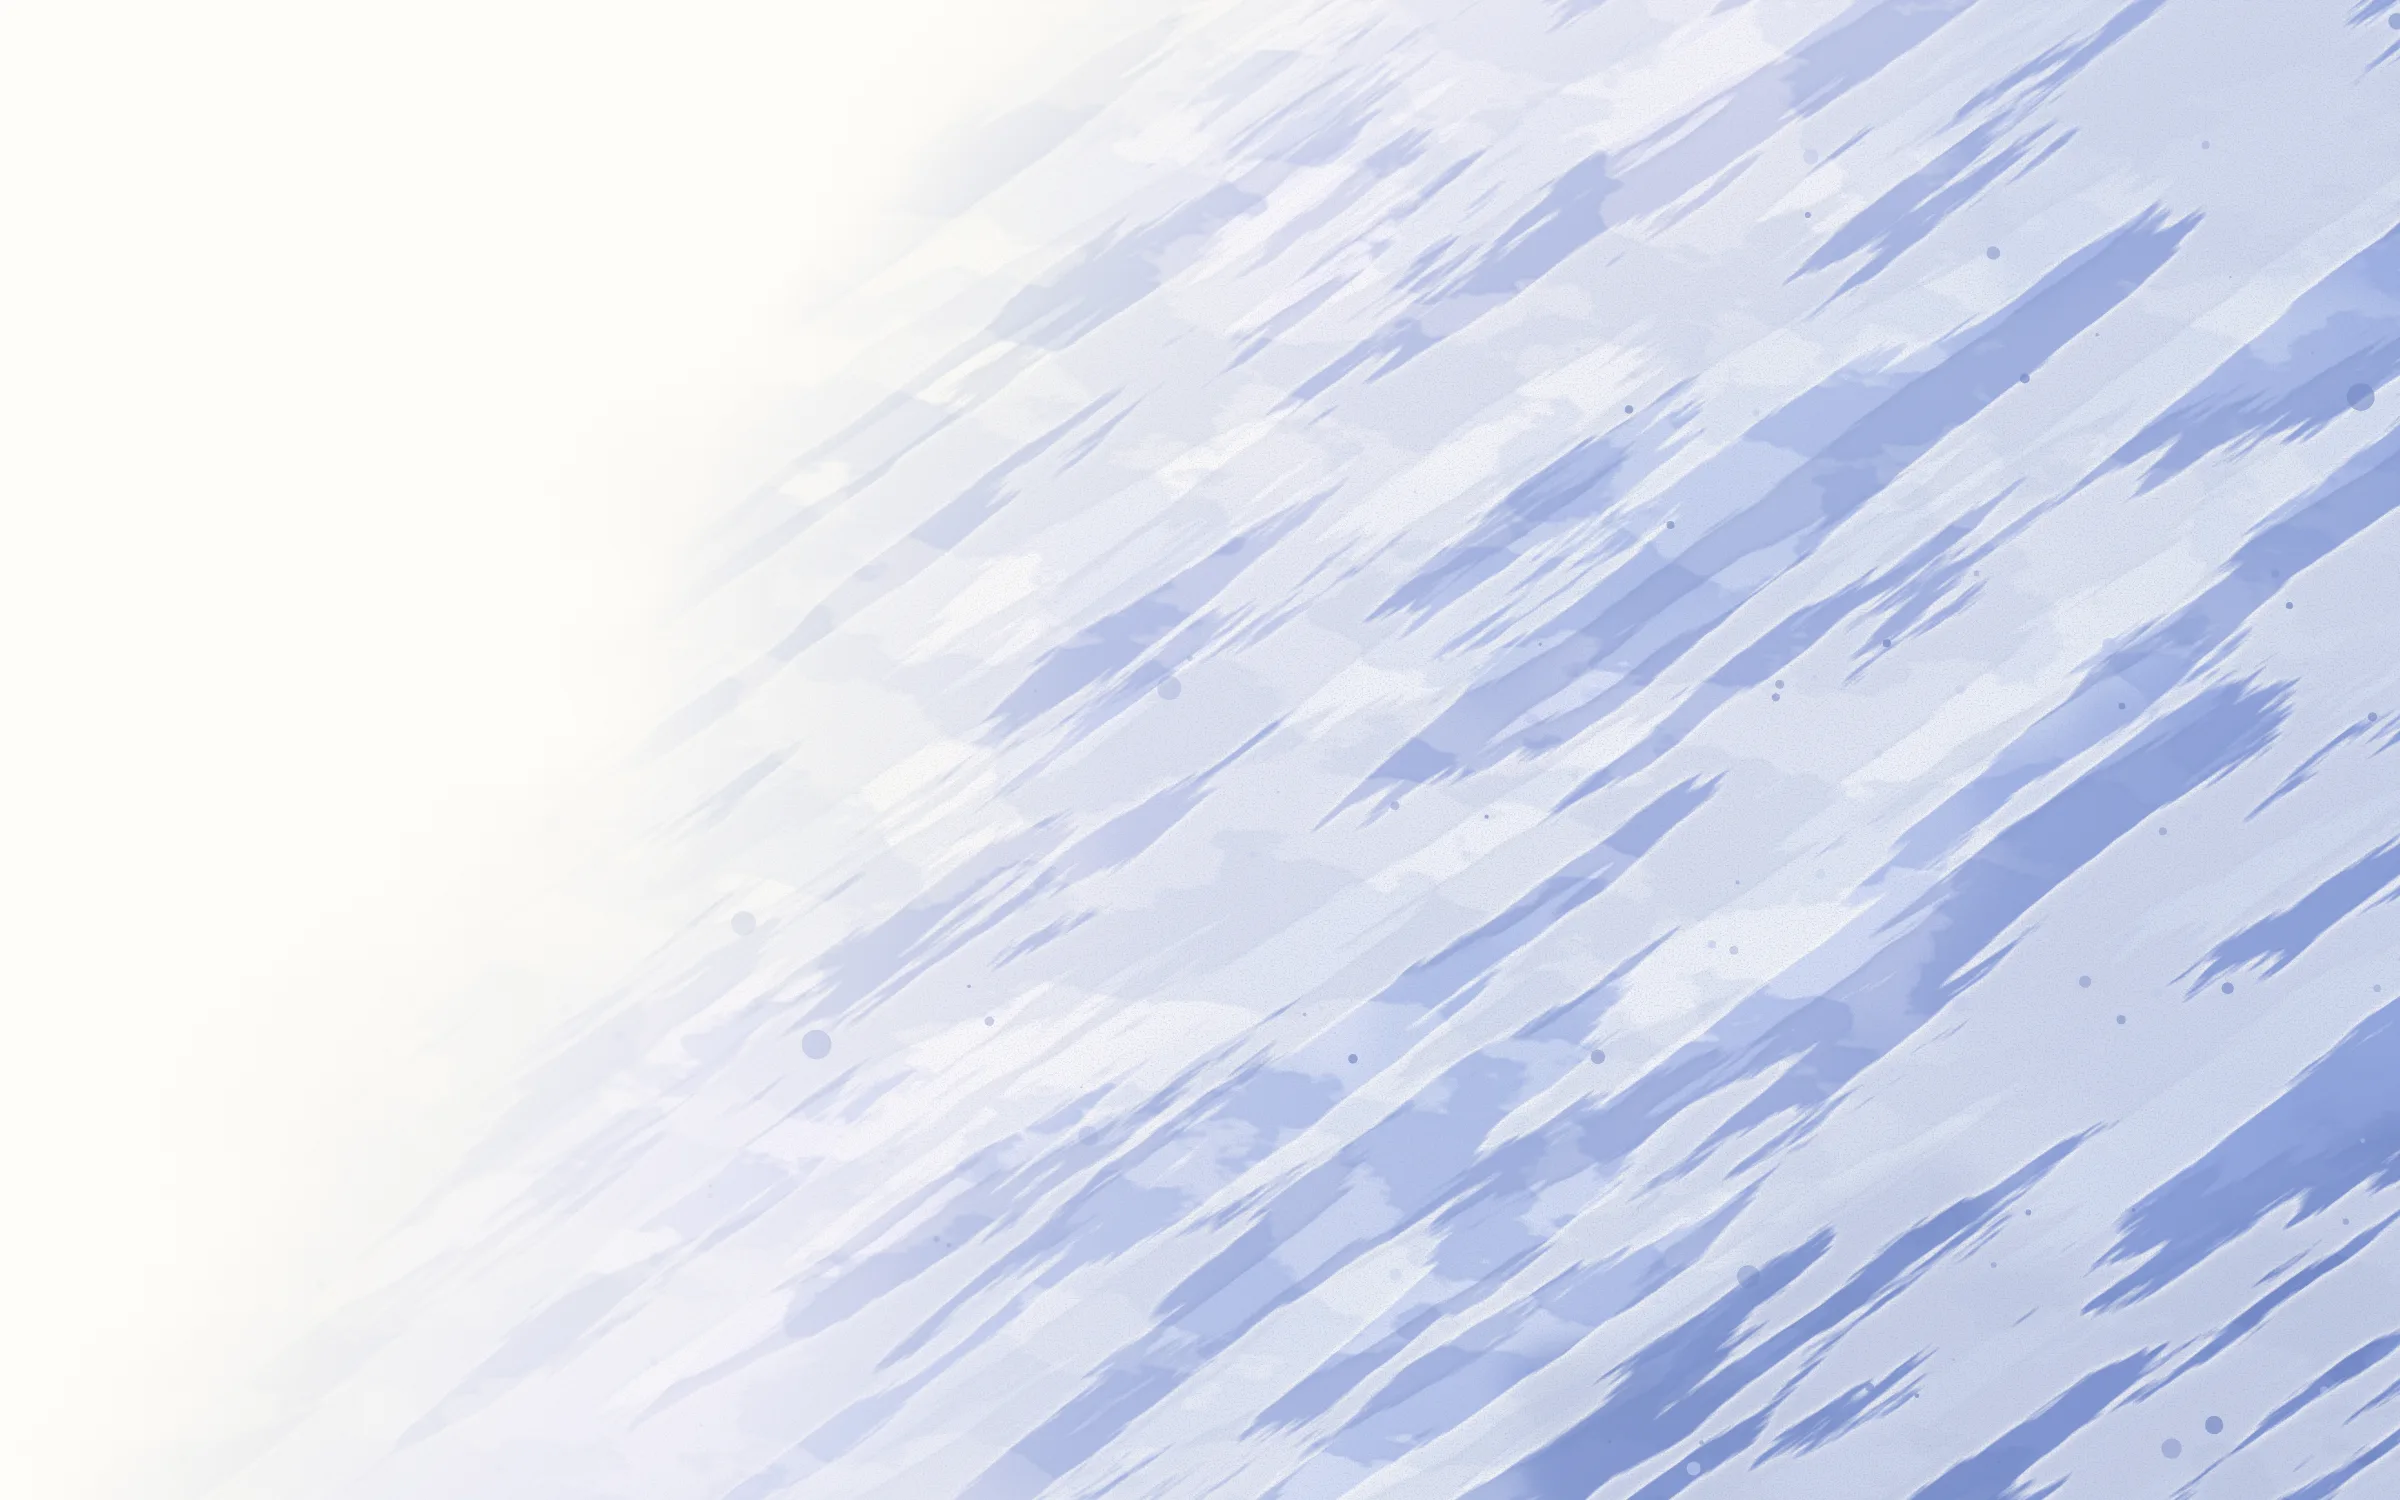
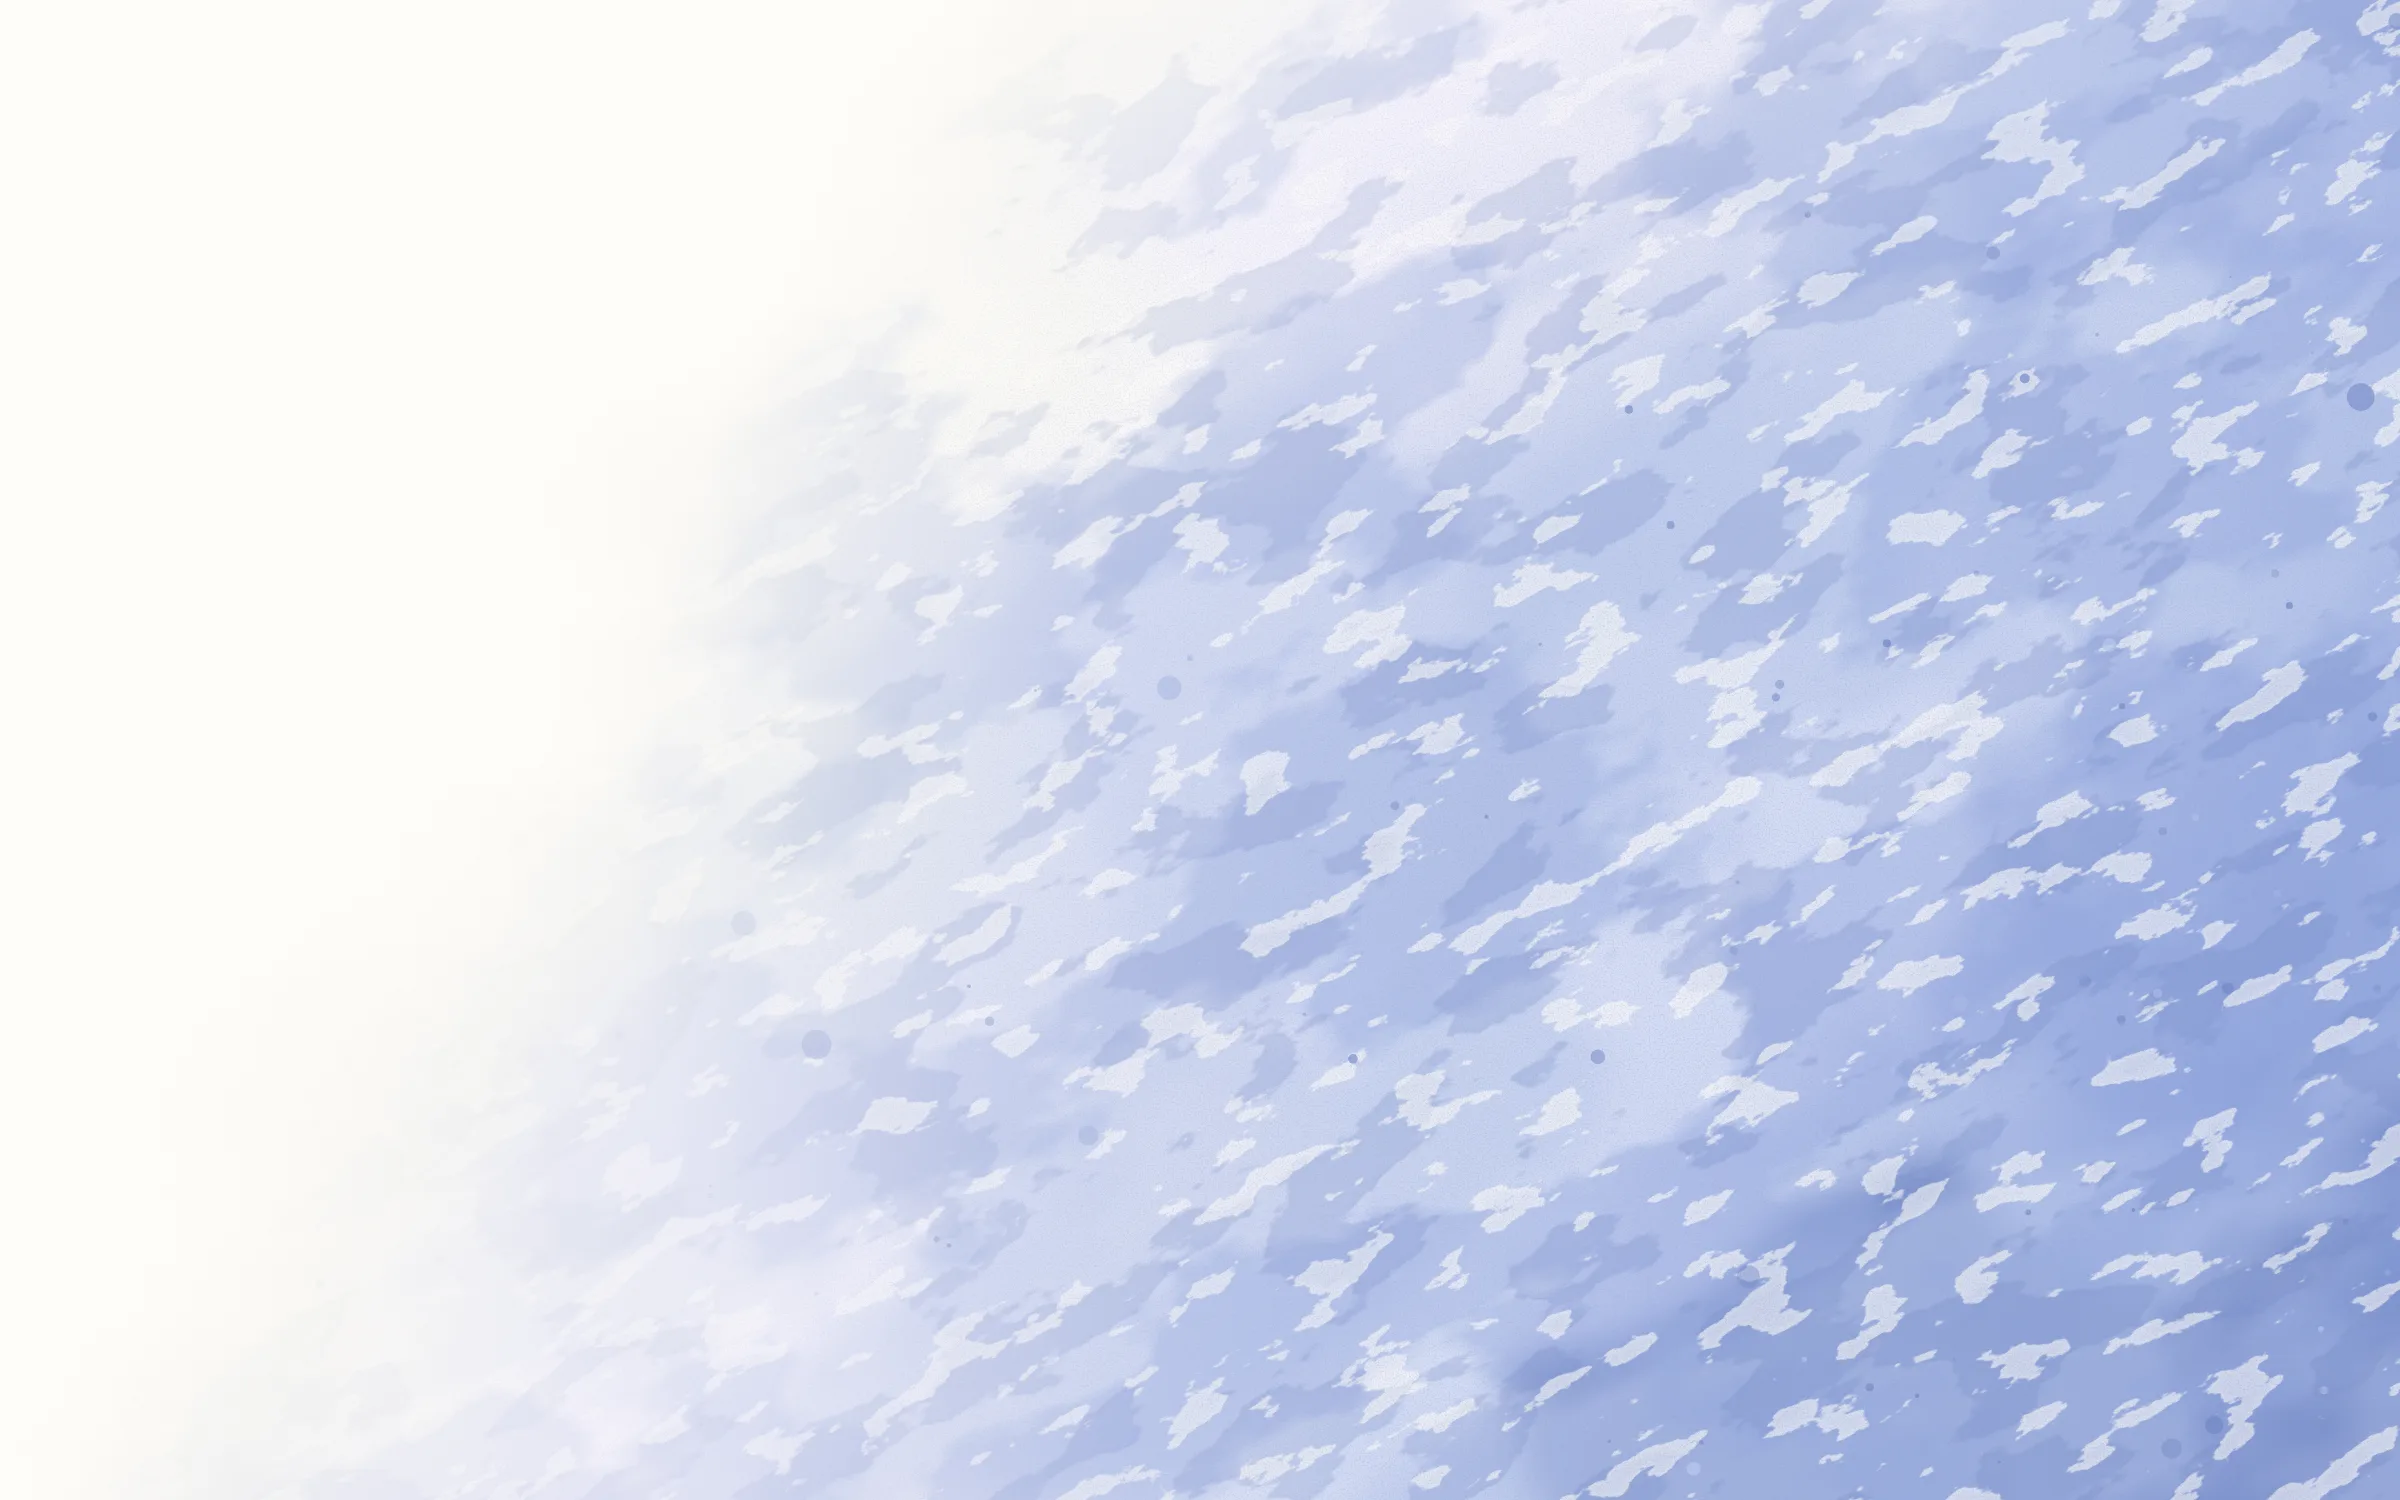
Cover: mottled watercolour background like An's reference, no brush lines
Replaces the dry-brush streak layers with soft pools of pigment and flecks of
bare paper, lightly aligned with the wash.

Claude-Session: https://claude.ai/code/session_0159GH97PS4Djb92bQ7DK8qk

diff --git a/scripts/watercolor/wash.html b/scripts/watercolor/wash.html
@@ -30,6 +30,16 @@ function drops() {
   }
   return out;
 }
+// A thresholded-noise filter: pools of pigment with a slightly darker drying edge.
+function mottle(id, fx, fy, seedOff, gain, bias) {
+  return `<filter id="${id}" x="0" y="0" width="100%" height="100%">
+      <feTurbulence type="fractalNoise" baseFrequency="${fx / s} ${fy / s}" numOctaves="5" seed="${seed + seedOff}"/>
+      <feColorMatrix type="matrix" values="0 0 0 0 0  0 0 0 0 0  0 0 0 0 0  0 0 0 ${gain} ${bias}" result="a"/>
+      <feGaussianBlur in="a" stdDeviation="${3 * s}" result="b"/>
+      <feComposite in="a" in2="b" operator="arithmetic" k2="1.4" k3="-0.5" result="edge"/>
+      <feComposite in="SourceGraphic" in2="edge" operator="in"/>
+    </filter>`;
+}
 // Wash axis: from the top-left corner to the bottom-right corner.
 document.body.innerHTML = `
 <svg xmlns="http://www.w3.org/2000/svg" width="${W}" height="${H}" viewBox="0 0 ${W} ${H}">
@@ -60,30 +70,19 @@ document.body.innerHTML = `
     </radialGradient>
     <mask id="reachMask"><rect width="${W}" height="${H}" fill="url(#reach)"/><rect width="${W}" height="${H}" fill="url(#pool)"/></mask>
 
-    <!-- mottled patches: pigment settling unevenly, broken by flecks of bare paper -->
-    <filter id="blotch" x="0" y="0" width="100%" height="100%">
-      <feTurbulence type="fractalNoise" baseFrequency="${0.005 / s} ${0.009 / s}" numOctaves="5" seed="${seed + 11}"/>
-      <feColorMatrix type="matrix" values="0 0 0 0 0  0 0 0 0 0  0 0 0 0 0  0 0 0 -22 12.1" result="a"/>
-      <feGaussianBlur in="a" stdDeviation="${3 * s}" result="b"/>
-      <feComposite in="a" in2="b" operator="arithmetic" k2="1.5" k3="-0.6" result="edge"/>
-      <feComposite in="SourceGraphic" in2="edge" operator="in"/>
-    </filter>
-
     <!-- wet edges: the smooth wash is pushed around by low-frequency noise -->
     <filter id="wet" x="-10%" y="-10%" width="120%" height="120%">
       <feTurbulence type="fractalNoise" baseFrequency="${0.0016 / s} ${0.0032 / s}" numOctaves="4" seed="${seed}" result="n"/>
       <feDisplacementMap in="SourceGraphic" in2="n" scale="${420 * s}" xChannelSelector="R" yChannelSelector="G"/>
     </filter>
 
-    <!-- brush streaks: noise stretched along one axis, thresholded into dry-brush strokes -->
-    <filter id="streak" x="0" y="0" width="100%" height="100%">
-      <feTurbulence type="fractalNoise" baseFrequency="${0.0014 / s} ${0.012 / s}" numOctaves="6" seed="${seed + 3}"/>
-      <feColorMatrix type="matrix" values="0 0 0 0 0  0 0 0 0 0  0 0 0 0 0  0 0 0 -26 14.6" result="a"/>
-      <!-- pigment collects at the drying edge: darker rim, lighter middle -->
-      <feGaussianBlur in="a" stdDeviation="${4 * s}" result="b"/>
-      <feComposite in="a" in2="b" operator="arithmetic" k2="1.7" k3="-1" result="edge"/>
-      <feComposite in="SourceGraphic" in2="edge" operator="in"/>
-    </filter>
+    <!-- watercolour mottling (An, 2026-10-06: soft patches like the reference, no brush lines):
+         noise only slightly elongated along the wash, thresholded into pools of pigment
+         whose drying edge is a touch darker than their middle -->
+    ${mottle("m1", 0.0011, 0.0019, 3, -10, 5.6)}
+    ${mottle("m2", 0.0026, 0.0048, 13, -14, 7.2)}
+    ${mottle("m3", 0.006, 0.014, 21, -22, 9.9)}
+    ${mottle("paper", 0.011, 0.028, 31, -28, 10.6)}
 
     <!-- blooms: soft cauliflower edges where wet pigment pooled -->
     <filter id="bloom" x="-20%" y="-20%" width="140%" height="140%">
@@ -113,14 +112,12 @@ document.body.innerHTML = `
       <ellipse cx="${W * 0.92}" cy="${H * 0.6}" rx="${W * 0.12}" ry="${H * 0.16}" fill="#91A6DD" opacity="0.55"/>
       <ellipse cx="${W * 0.86}" cy="${H * 0.95}" rx="${W * 0.22}" ry="${H * 0.14}" fill="#7186C4" opacity="0.7"/>
     </g>
-    <!-- 3a. mottled patches -->
-    <rect width="${W}" height="${H}" fill="#91A6DD" opacity="0.5" filter="url(#blotch)"/>
-    <!-- 3b. dry-brush streaks running across the wash, lower-left to upper-right -->
-    <g transform="rotate(-33 ${W / 2} ${H / 2})">
-      <rect x="${-W * 0.4}" y="${-H * 0.4}" width="${W * 1.8}" height="${H * 1.8}" fill="#7186C4" opacity="0.42" filter="url(#streak)"/>
-    </g>
-    <g transform="rotate(-36 ${W / 2} ${H / 2}) translate(0 ${H * 0.07})">
-      <rect x="${-W * 0.4}" y="${-H * 0.4}" width="${W * 1.8}" height="${H * 1.8}" fill="#FFFDF8" opacity="0.78" filter="url(#streak)"/>
+    <!-- 3. mottled pigment, lightly aligned with the wash; then flecks of bare paper -->
+    <g transform="rotate(-30 ${W / 2} ${H / 2})">
+      <rect x="${-W * 0.4}" y="${-H * 0.4}" width="${W * 1.8}" height="${H * 1.8}" fill="#B8C6EA" opacity="0.6" filter="url(#m1)"/>
+      <rect x="${-W * 0.4}" y="${-H * 0.4}" width="${W * 1.8}" height="${H * 1.8}" fill="#91A6DD" opacity="0.45" filter="url(#m2)"/>
+      <rect x="${-W * 0.4}" y="${-H * 0.4}" width="${W * 1.8}" height="${H * 1.8}" fill="#7186C4" opacity="0.28" filter="url(#m3)"/>
+      <rect x="${-W * 0.4}" y="${-H * 0.4}" width="${W * 1.8}" height="${H * 1.8}" fill="#FFFDF8" opacity="0.6" filter="url(#paper)"/>
     </g>
     <!-- 4. granulation -->
     <rect width="${W}" height="${H}" filter="url(#grain)" opacity="0.32"/>
